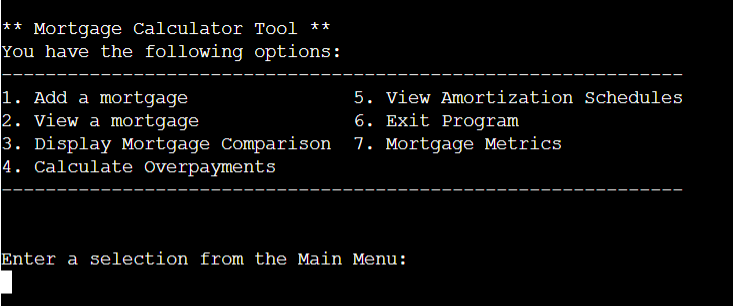
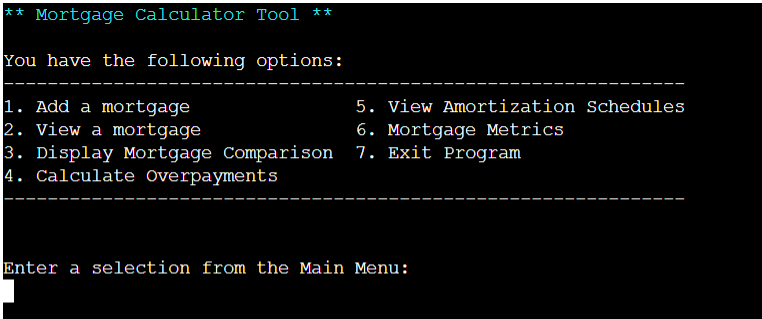
Updates color for page titles

diff --git a/run.py b/run.py
@@ -378,7 +378,7 @@ def create_mortgage():
     - Requests user input to save Mortgage Profile for session
     """
     clear_screen()
-    cprint("*** ADD A MORTGAGE *** \n")
+    cprint("*** ADD A MORTGAGE *** \n", "light_green")
     cprint("Enter Your Mortgage details in below:\n", "light_green")
 
     # Request input from the user
@@ -412,6 +412,7 @@ def view_mortgage():
     Allows user to choose an individual Mortgage Profile to view
     """
     clear_screen()
+    cprint("*** VIEW A MORTGAGE *** \n", "light_green")
 
     # Prints a column of the available Mortgage Class Instances
     if len(mortgage_dict) == 0:
@@ -455,6 +456,7 @@ def compare_mortgages():
     Displays a comparison table of all the Mortgage Profiles saved by the user
     """
     clear_screen()
+    cprint("*** COMPARE MORTGAGES *** \n", "light_green")
 
     if len(mortgage_dict) < 2:
         cprint(
@@ -576,7 +578,7 @@ def overpayments():
     Gives User the selection of making monthly overpayments or a lump sum overpayment
     """
     clear_screen()
-    cprint("Mortgage Overpayments:\n", "light_green")
+    cprint("MORTGAGE OVERPAYMENTS:\n", "light_green")
 
     is_valid = False
     while is_valid != True:
@@ -612,6 +614,8 @@ def amortization():
     Allows user to view an amoritization for individual Mortgage profile
     """
     clear_screen()
+    cprint("*** VIEW AN AMORTIZATION FOR A MORTGAGE *** \n", "light_green")
+
     if len(mortgage_dict) == 0:
         cprint(
             "This feature requires you to add at least one mortgage.\nAdd a mortgage to proceed.",
